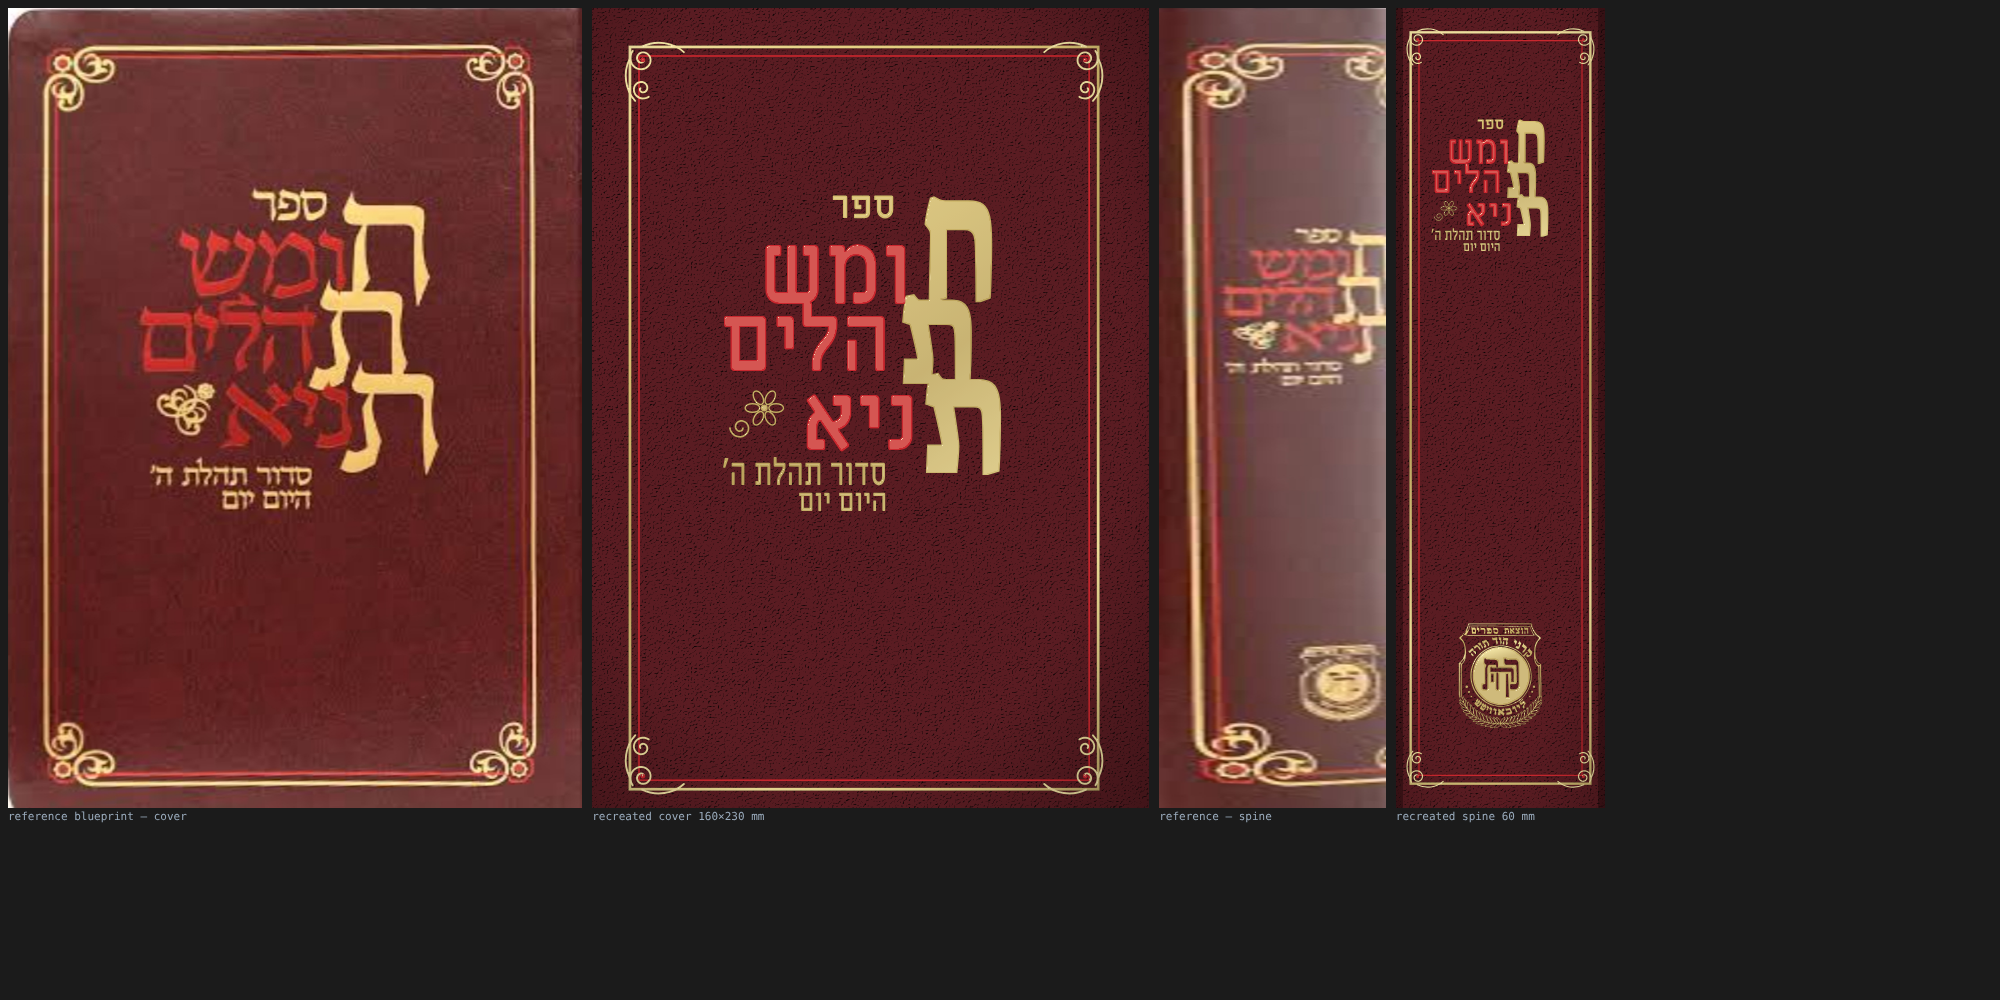
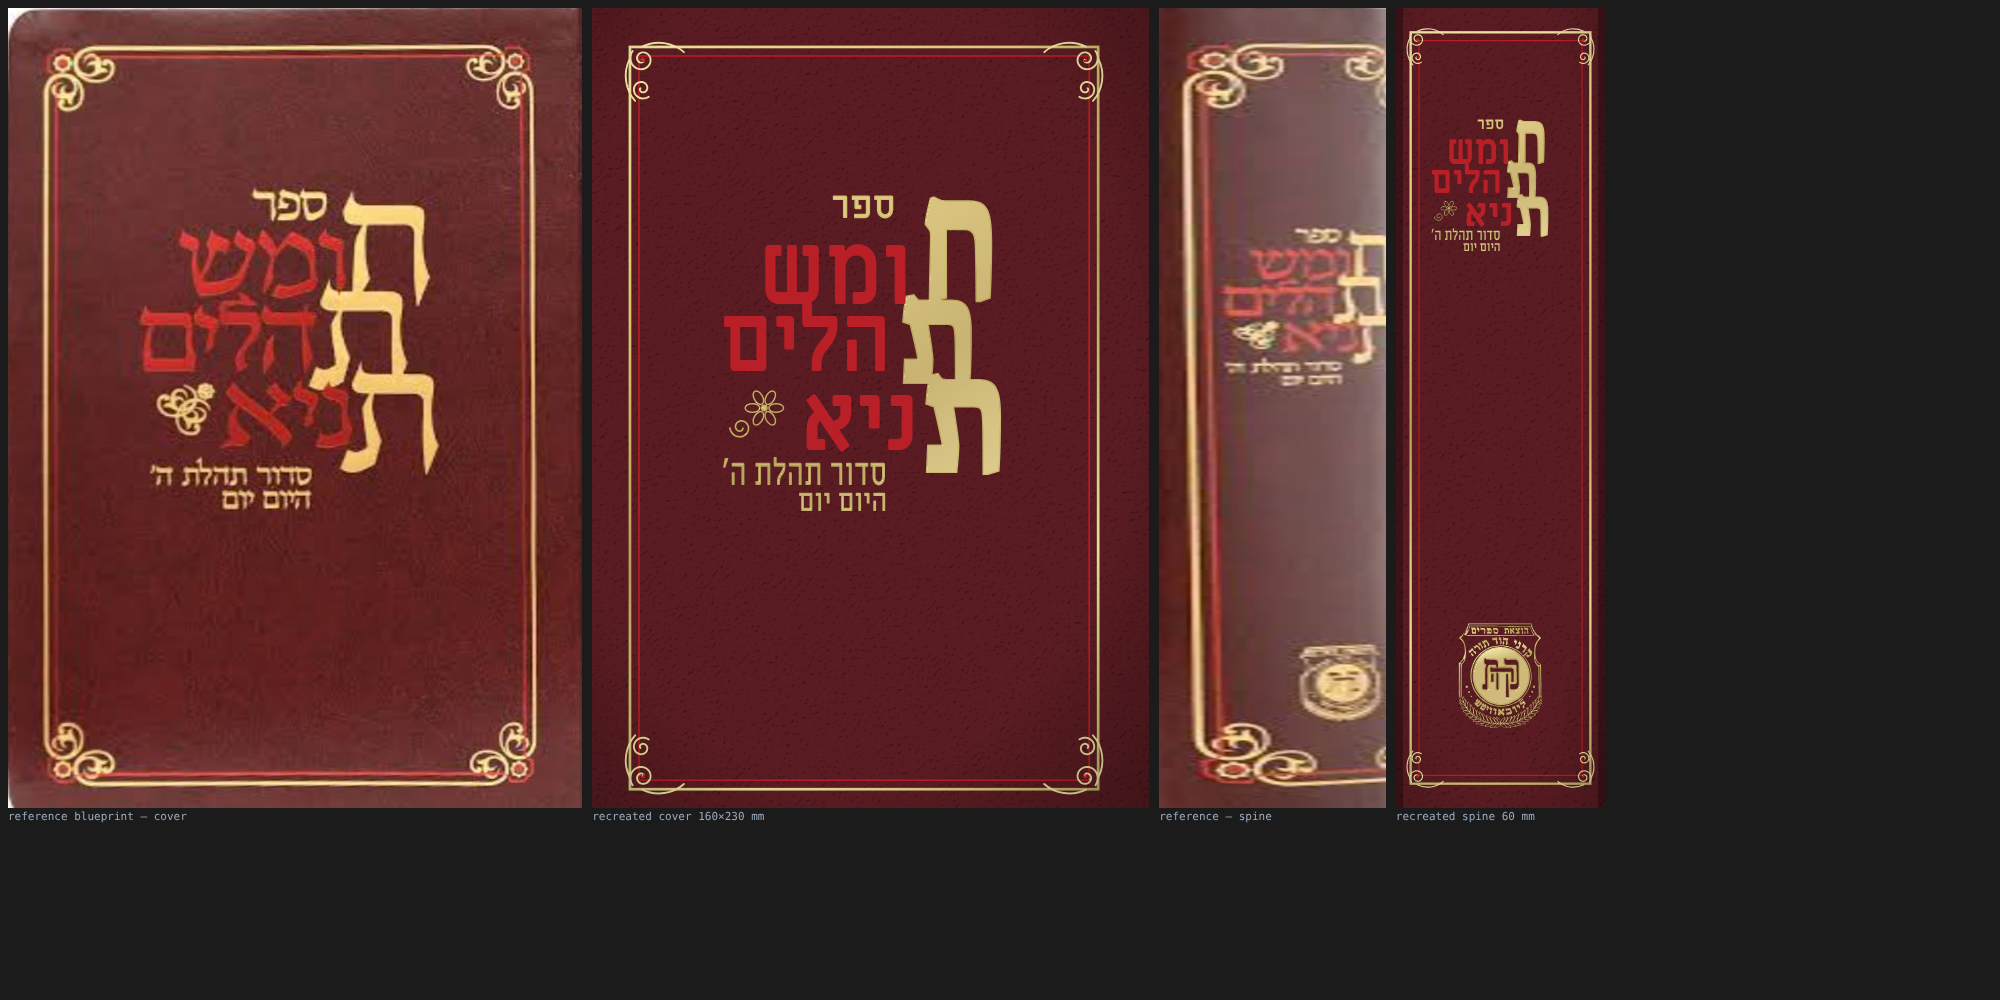
Cleaner materials: coarser, softer leather/cloth grain; true-red Chitas lettering
Claude-Session: https://claude.ai/code/session_011GckSSeUjY1gy94AwsuRMa

Changed region(s): [[0.341, 0.217, 0.465, 0.465], [0.713, 0.124, 0.744, 0.217]]

diff --git a/src/art/designs/chitas.ts b/src/art/designs/chitas.ts
@@ -2,8 +2,8 @@ import type { ArtDesign, DesignContext } from './types';
 import { cornerCurl, f2, foilGradient, foilStampFilter, kehotMark, leatherFilter, rosette, svgDoc, text } from '../svgkit';
 
 /** ספר חת״ת — חומש, תהלים, תניא · סדור תהלת ה׳ · היום יום: maroon leatherette, gold frame, giant gold ח ת ת with red words. */
-const MAROON = '#5a1c22';
-const RED = '#c9282f';
+const MAROON = '#66232a';
+const RED = '#b81f27';
 
 function defs(w: number, h: number, id: string): string {
   return `${leatherFilter(`lea-${id}`, { base: MAROON, freq: 2.2, bump: 0.9, gain: 1.4, seed: 5, veining: false })}
@@ -12,20 +12,23 @@ ${foilGradient(`gold-${id}`, 'paleGold', w, h)}${foilStampFilter(`stamp-${id}`)}
 }
 
 /** The title block, drawn in a 160 × 230 coordinate frame and scaled/translated onto the cover or spine. */
-function titleBlock(id: string, withSubtitle = true): string {
+/** Measured from the rectified reference (735 × 1024 px → 160 × 230 mm). Text anchors are centres.
+ *  Each row is a giant gold initial plus the rest of the word in red, set flush against it. Gold is foil-stamped; the red is printed ink. */
+function goldBlock(id: string, withSubtitle = true): string {
   const gold = `url(#gold-${id})`;
-  // Measured from the rectified reference (735 × 1024 px → 160 × 230 mm). Text anchors are centres.
-  // Each row is a giant gold initial plus the rest of the word in red, set flush against it.
   return `
 ${text({ x: 78, y: 60.5, size: 11, font: 'block', weight: 700, fill: gold, text: 'ספר', width: 18.5 })}
 ${text({ x: 105.5, y: 84, size: 52, font: 'serifDisplay', weight: 400, fill: gold, text: 'ח', width: 23 })}
 ${text({ x: 99.5, y: 108, size: 44, font: 'serifDisplay', weight: 400, fill: gold, text: 'ת', width: 23 })}
 ${text({ x: 107, y: 133.6, size: 49, font: 'serifDisplay', weight: 400, fill: gold, text: 'ת', width: 25 })}
-${text({ x: 70, y: 85, size: 29, font: 'block', weight: 700, fill: RED, text: 'ומש', width: 44 })}
-${text({ x: 61.5, y: 104.5, size: 27, font: 'block', weight: 700, fill: RED, text: 'הלים', width: 49 })}
-${text({ x: 77, y: 127, size: 27, font: 'block', weight: 700, fill: RED, text: 'ניא', width: 34 })}
 ${rosette(49.5, 115, 6.2, gold)}
 ${withSubtitle ? `${text({ x: 61, y: 137, size: 11, font: 'block', weight: 600, fill: gold, text: 'סדור תהלת ה׳', width: 47.5 })}${text({ x: 72, y: 144.5, size: 9, font: 'block', weight: 600, fill: gold, text: 'היום יום', width: 25.7 })}` : ''}`;
+}
+function redBlock(): string {
+  return `
+${text({ x: 70, y: 85, size: 29, font: 'block', weight: 700, fill: RED, text: 'ומש', width: 44 })}
+${text({ x: 61.5, y: 104.5, size: 27, font: 'block', weight: 700, fill: RED, text: 'הלים', width: 49 })}
+${text({ x: 77, y: 127, size: 27, font: 'block', weight: 700, fill: RED, text: 'ניא', width: 34 })}`;
 }
 
 function cover(c: DesignContext): string {
@@ -38,8 +41,9 @@ function cover(c: DesignContext): string {
 <rect x="${x0}" y="${y0}" width="${f2(x1 - x0)}" height="${f2(y1 - y0)}" fill="none" stroke="${gold}" stroke-width="0.8"/>
 <rect x="${f2(x0 + 2.6)}" y="${f2(y0 + 2.6)}" width="${f2(x1 - x0 - 5.2)}" height="${f2(y1 - y0 - 5.2)}" fill="none" stroke="${RED}" stroke-width="0.5"/>
 ${cornerCurl(x0 - 1.5, y0 - 1.5, 1, 1, gold, RED, 1)}${cornerCurl(x1 + 1.5, y0 - 1.5, -1, 1, gold, RED, 1)}${cornerCurl(x0 - 1.5, y1 + 1.5, 1, -1, gold, RED, 1)}${cornerCurl(x1 + 1.5, y1 + 1.5, -1, -1, gold, RED, 1)}
-${titleBlock(id)}
+${goldBlock(id)}
 </g>
+${redBlock()}
 <rect width="${W}" height="${H}" fill="url(#wear-${id})"/>`;
   return svgDoc({ w: W, h: H, defs: defs(W, H, id), body });
 }
@@ -55,9 +59,10 @@ function spine(c: DesignContext): string {
 <rect x="4.2" y="7" width="${f2(T - 8.4)}" height="${f2(H - 14)}" fill="none" stroke="${gold}" stroke-width="0.7"/>
 <rect x="6.6" y="9.4" width="${f2(T - 13.2)}" height="${f2(H - 18.8)}" fill="none" stroke="${RED}" stroke-width="0.4"/>
 ${cornerCurl(3, 5.8, 1, 1, gold, RED, 0.62)}${cornerCurl(T - 3, 5.8, -1, 1, gold, RED, 0.62)}${cornerCurl(3, H - 5.8, 1, -1, gold, RED, 0.62)}${cornerCurl(T - 3, H - 5.8, -1, -1, gold, RED, 0.62)}
-<g transform="translate(${f2(T / 2 - 80 * k - 2)} ${f2(34 - 58.8 * k)}) scale(${f2(k)})">${titleBlock(id)}</g>
+<g transform="translate(${f2(T / 2 - 80 * k - 2)} ${f2(34 - 58.8 * k)}) scale(${f2(k)})">${goldBlock(id)}</g>
 ${kehotMark(T / 2, H - 38, Math.min(24, T - 16), gold, MAROON)}
 </g>
+<g transform="translate(${f2(T / 2 - 80 * k - 2)} ${f2(34 - 58.8 * k)}) scale(${f2(k)})">${redBlock()}</g>
 <rect width="${T}" height="${H}" fill="url(#wear-${id})" opacity="0.7"/>`;
   return svgDoc({ w: T, h: H, defs: defs(T, H, id), body });
 }

diff --git a/src/art/svgkit.ts b/src/art/svgkit.ts
@@ -36,17 +36,19 @@ export function text(o: TextOpts): string {
 
 /* ------------------------------------------------------------------ materials */
 
-export interface LeatherOpts { base: string; seed?: number; freq?: number; bump?: number; gain?: number; veining?: boolean }
+export interface LeatherOpts { base: string; seed?: number; freq?: number; bump?: number; gain?: number; veining?: boolean; /** 0..1 — how much of the grain relief shows over the flat colour (default 0.55) */ strength?: number }
 
 /** Pebbled leather / leatherette: fractal noise lit as a height map and multiplied into the binding colour. */
 export function leatherFilter(id: string, o: LeatherOpts): string {
-  const freq = o.freq ?? 1.6, bump = o.bump ?? 1.4, gain = o.gain ?? 1.35;
+  // user-space frequency is per millimetre: keep the grain coarser than a texture pixel (≈ 1 mm) so it never aliases into speckle
+  const freq = Math.min(o.freq ?? 1.6, 3) * 0.4, bump = (o.bump ?? 1.4) * 0.7, gain = o.gain ?? 1.35, k = o.strength ?? 0.55;
   return `<filter id="${id}" x="0" y="0" width="100%" height="100%" color-interpolation-filters="sRGB">
 <feTurbulence type="fractalNoise" baseFrequency="${freq}" numOctaves="3" seed="${o.seed ?? 3}" result="n"/>
 <feDiffuseLighting in="n" lighting-color="#ffffff" surfaceScale="${bump}" diffuseConstant="1.05" result="lit"><feDistantLight azimuth="235" elevation="58"/></feDiffuseLighting>
 <feComponentTransfer in="lit" result="lit2"><feFuncR type="linear" slope="${gain}"/><feFuncG type="linear" slope="${gain}"/><feFuncB type="linear" slope="${gain}"/></feComponentTransfer>
 <feFlood flood-color="${o.base}" result="c"/>
-<feBlend in="lit2" in2="c" mode="multiply"/>
+<feBlend in="lit2" in2="c" mode="multiply" result="m"/>
+<feComposite in="m" in2="c" operator="arithmetic" k1="0" k2="${k}" k3="${f2(1 - k)}" k4="0"/>
 ${o.veining ? `<feTurbulence type="fractalNoise" baseFrequency="0.012 0.05" numOctaves="2" seed="${(o.seed ?? 3) + 9}" result="v"/><feColorMatrix in="v" type="matrix" values="0 0 0 0 0  0 0 0 0 0  0 0 0 0 0  0 0 0 -1.4 1.0" result="va"/><feComposite in="va" in2="SourceGraphic" operator="in" result="vv"/>` : ''}
 </filter>`;
 }
@@ -54,13 +56,14 @@ ${o.veining ? `<feTurbulence type="fractalNoise" baseFrequency="0.012 0.05" numO
 /** Woven book cloth: horizontal+vertical fine thread pattern over a tone-on-tone noise. */
 export function clothFilter(id: string, base: string, seed = 5): string {
   return `<filter id="${id}" x="0" y="0" width="100%" height="100%" color-interpolation-filters="sRGB">
-<feTurbulence type="fractalNoise" baseFrequency="0.9 3.2" numOctaves="2" seed="${seed}" result="h"/>
-<feTurbulence type="fractalNoise" baseFrequency="3.2 0.9" numOctaves="2" seed="${seed + 1}" result="v"/>
+<feTurbulence type="fractalNoise" baseFrequency="0.45 1.5" numOctaves="2" seed="${seed}" result="h"/>
+<feTurbulence type="fractalNoise" baseFrequency="1.5 0.45" numOctaves="2" seed="${seed + 1}" result="v"/>
 <feBlend in="h" in2="v" mode="screen" result="w"/>
 <feDiffuseLighting in="w" lighting-color="#fff" surfaceScale="0.9" diffuseConstant="1.1" result="lit"><feDistantLight azimuth="235" elevation="62"/></feDiffuseLighting>
 <feComponentTransfer in="lit" result="lit2"><feFuncR type="linear" slope="1.25"/><feFuncG type="linear" slope="1.25"/><feFuncB type="linear" slope="1.25"/></feComponentTransfer>
 <feFlood flood-color="${base}" result="c"/>
-<feBlend in="lit2" in2="c" mode="multiply"/>
+<feBlend in="lit2" in2="c" mode="multiply" result="m"/>
+<feComposite in="m" in2="c" operator="arithmetic" k1="0" k2="0.6" k3="0.4" k4="0"/>
 </filter>`;
 }
 
